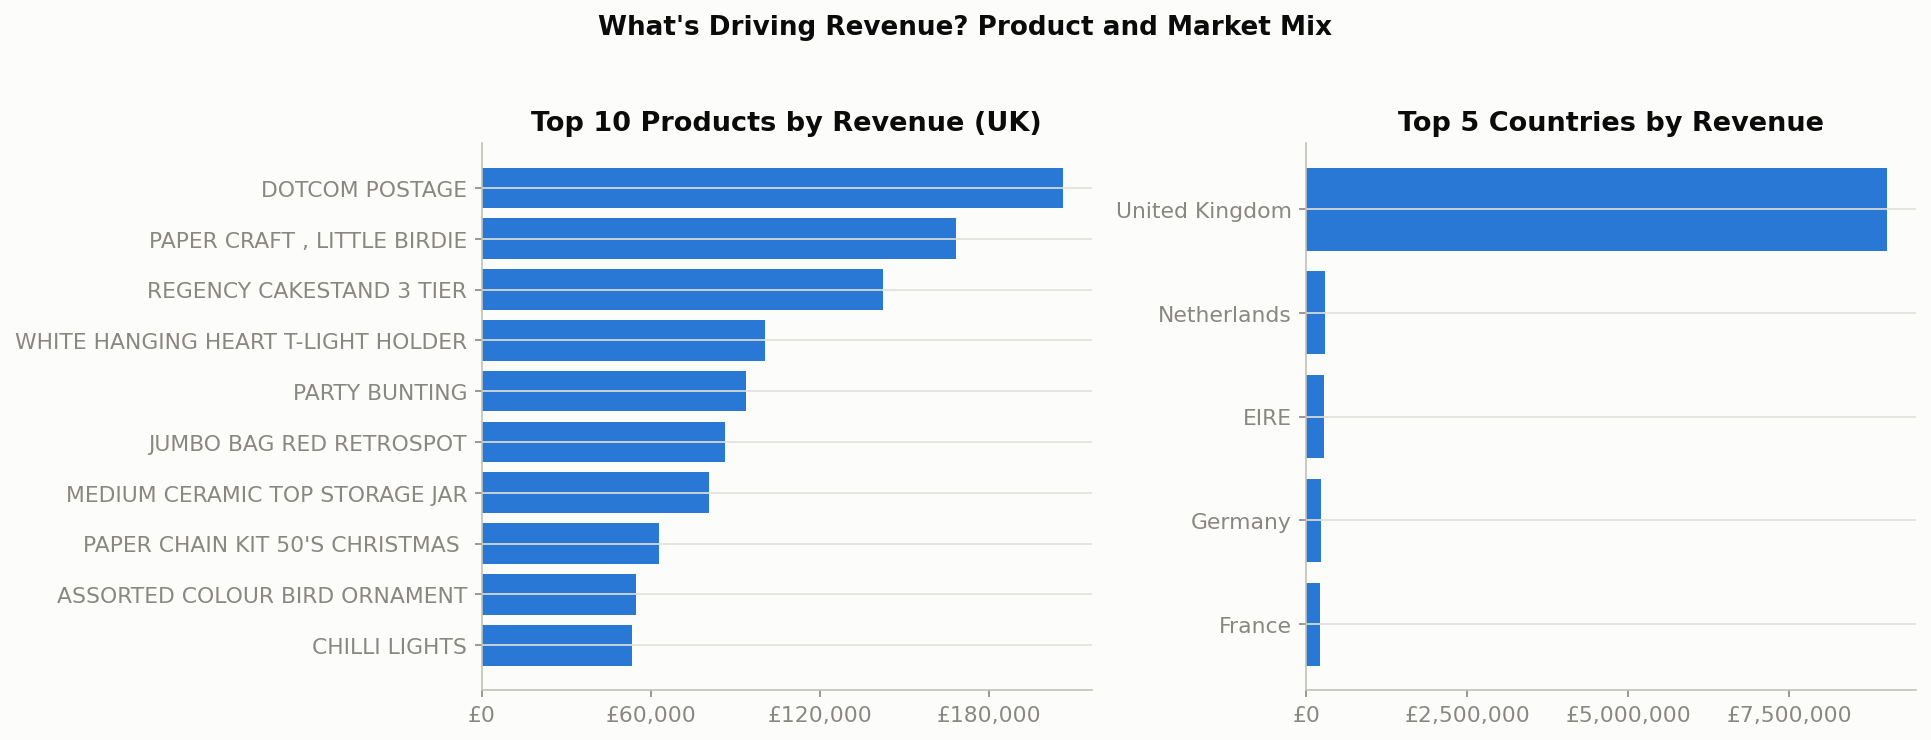
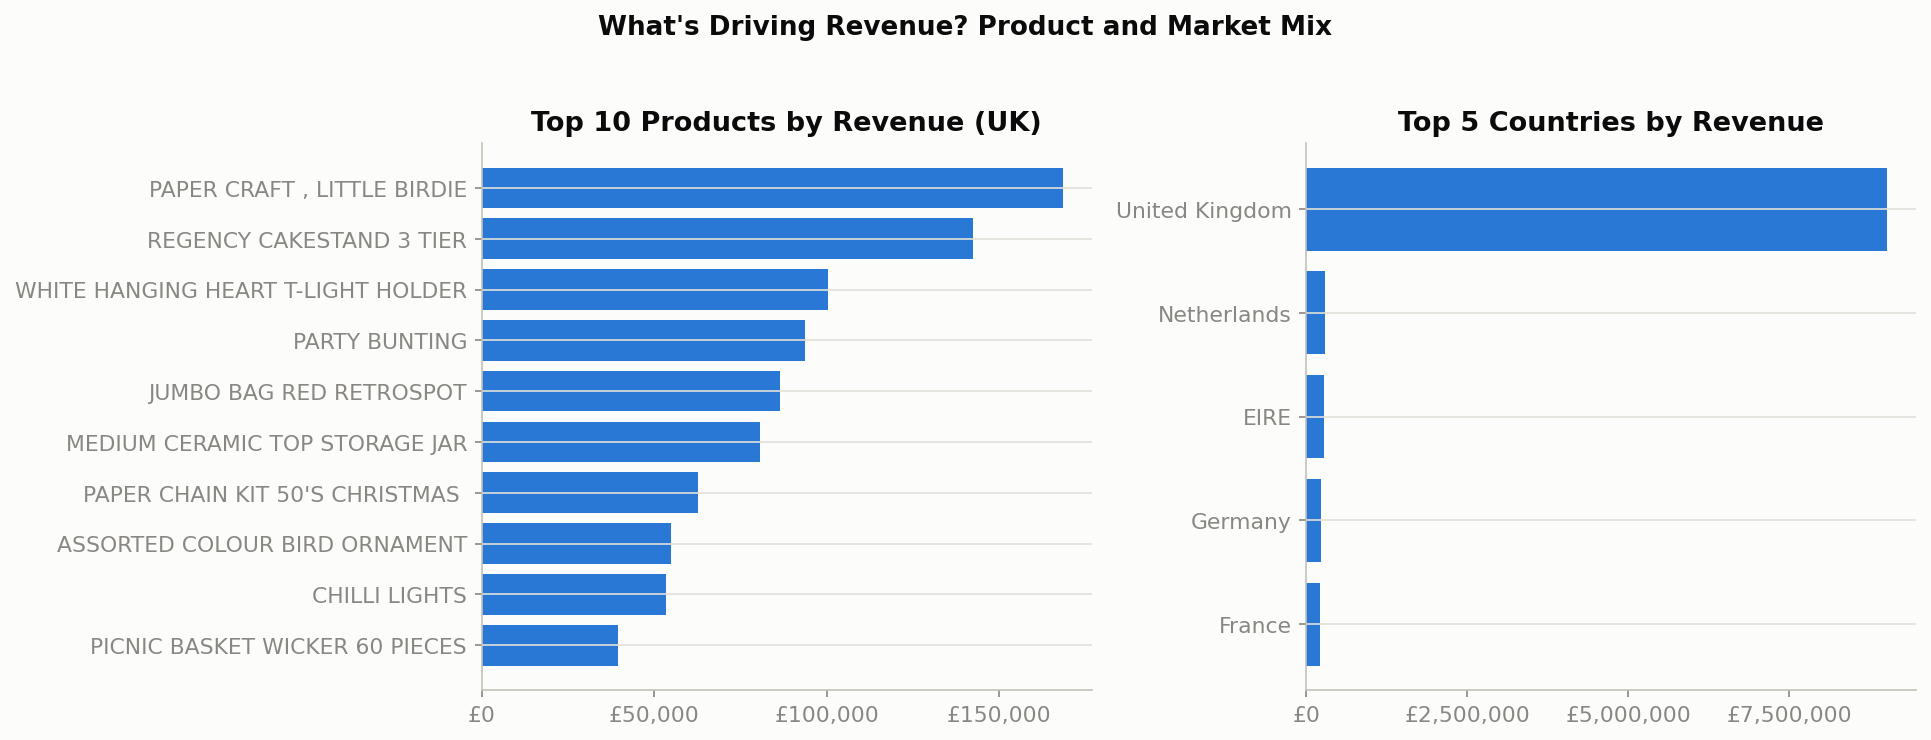
Add business narrative and project README
Add the data-driven "What This Means For Your Business" section
(f-string populated from computed forecast/model values covering
inventory, cash flow, and staffing implications). Exclude non-product
line items (postage, manual adjustments, bank charges) from the top
products chart and narrative so it reflects genuine stocked items.
Add README with project overview, key results, and setup steps.
Verified with a clean Restart & Run All: zero errors across all
37 cells.

diff --git a/README.md b/README.md
@@ -1,0 +1,73 @@
+# Sales & Demand Forecasting for a UK Online Retailer
+
+A sales forecasting project built for the Future Interns Machine Learning Task 1 (2026) brief: predict
+future sales/demand from historical data and present it in a way a store owner, startup founder, or
+business manager could act on.
+
+**Primary deliverable:** [`notebooks/01_sales_forecasting.ipynb`](notebooks/01_sales_forecasting.ipynb) —
+open it top to bottom for the full story: data cleaning, feature engineering, model training and
+evaluation, a 30-day forecast, and a plain-English business narrative.
+
+## What this project does
+
+- Cleans ~542,000 raw e-commerce transactions down to a trustworthy daily revenue series
+- Engineers time-based features — calendar, cyclical (day-of-week/month), trend, lags, rolling stats,
+  UK holiday flag — using only pandas/NumPy (no `statsmodels`/`prophet`)
+- Trains and evaluates three models (naive lag-7 baseline, Linear Regression, Random Forest) on a
+  chronological 56-day holdout
+- Recursively forecasts the next 30 days of revenue
+- Produces seven business-facing charts and a data-driven explanation of what the forecast means for
+  inventory, cash flow, and staffing decisions
+
+## Dataset
+
+[UCI Online Retail](https://archive.ics.uci.edu/ml/datasets/online+retail) — ~541,909 line-item
+transactions from a UK-based online retailer, December 2010 to December 2011. Chosen because it's real
+transaction data, downloads directly with no authentication, and is one of the task brief's three
+recommended dataset options.
+
+## Key results
+
+- **Best model:** Linear Regression, beating the naive "same day last week" baseline on MAE, RMSE, and MAPE
+- **Holdout accuracy:** ~£10,500/day mean absolute error (~28% of the holdout period's average daily revenue)
+- **30-day forecast:** ~£45,300/day average, continuing the growth trend visible since September 2011
+- See `outputs/figures/` for all charts, and notebook §10 for the full business write-up
+
+| Figure | What it shows |
+|---|---|
+| `01_historical_trend.png` | A year of daily revenue with a 7-day rolling average |
+| `02_monthly_seasonality.png` | Monthly totals — the Nov/Dec holiday peak |
+| `03_day_of_week.png` | Average revenue by day of week |
+| `04_actual_vs_predicted.png` | Model performance on the 56-day holdout |
+| `05_residuals.png` | Error analysis — is the model's error random or biased? |
+| `06_future_forecast.png` | The headline chart: next 30 days, with a historical-error band |
+| `07_top_products_countries.png` | Top products and markets (descriptive) |
+
+## Project structure
+
+```
+FUTURE_ML_01/
+├── notebooks/01_sales_forecasting.ipynb   # primary deliverable
+├── src/
+│   ├── viz_style.py                       # shared chart styling
+│   └── forecasting.py                     # recursive multi-step forecast function
+├── data/
+│   ├── raw/online_retail.xlsx             # downloaded source data
+│   └── processed/daily_revenue.csv        # cleaned daily revenue series
+├── outputs/figures/                       # exported charts (PNG, 150dpi)
+└── requirements.txt
+```
+
+## Reproducing this
+
+```bash
+pip install -r requirements.txt
+jupyter nbconvert --to notebook --execute --inplace notebooks/01_sales_forecasting.ipynb
+```
+
+The raw dataset is already included in `data/raw/`; to re-download it fresh:
+
+```bash
+curl -L -o data/raw/online_retail.xlsx \
+  "https://archive.ics.uci.edu/ml/machine-learning-databases/00352/Online%20Retail.xlsx"
+```